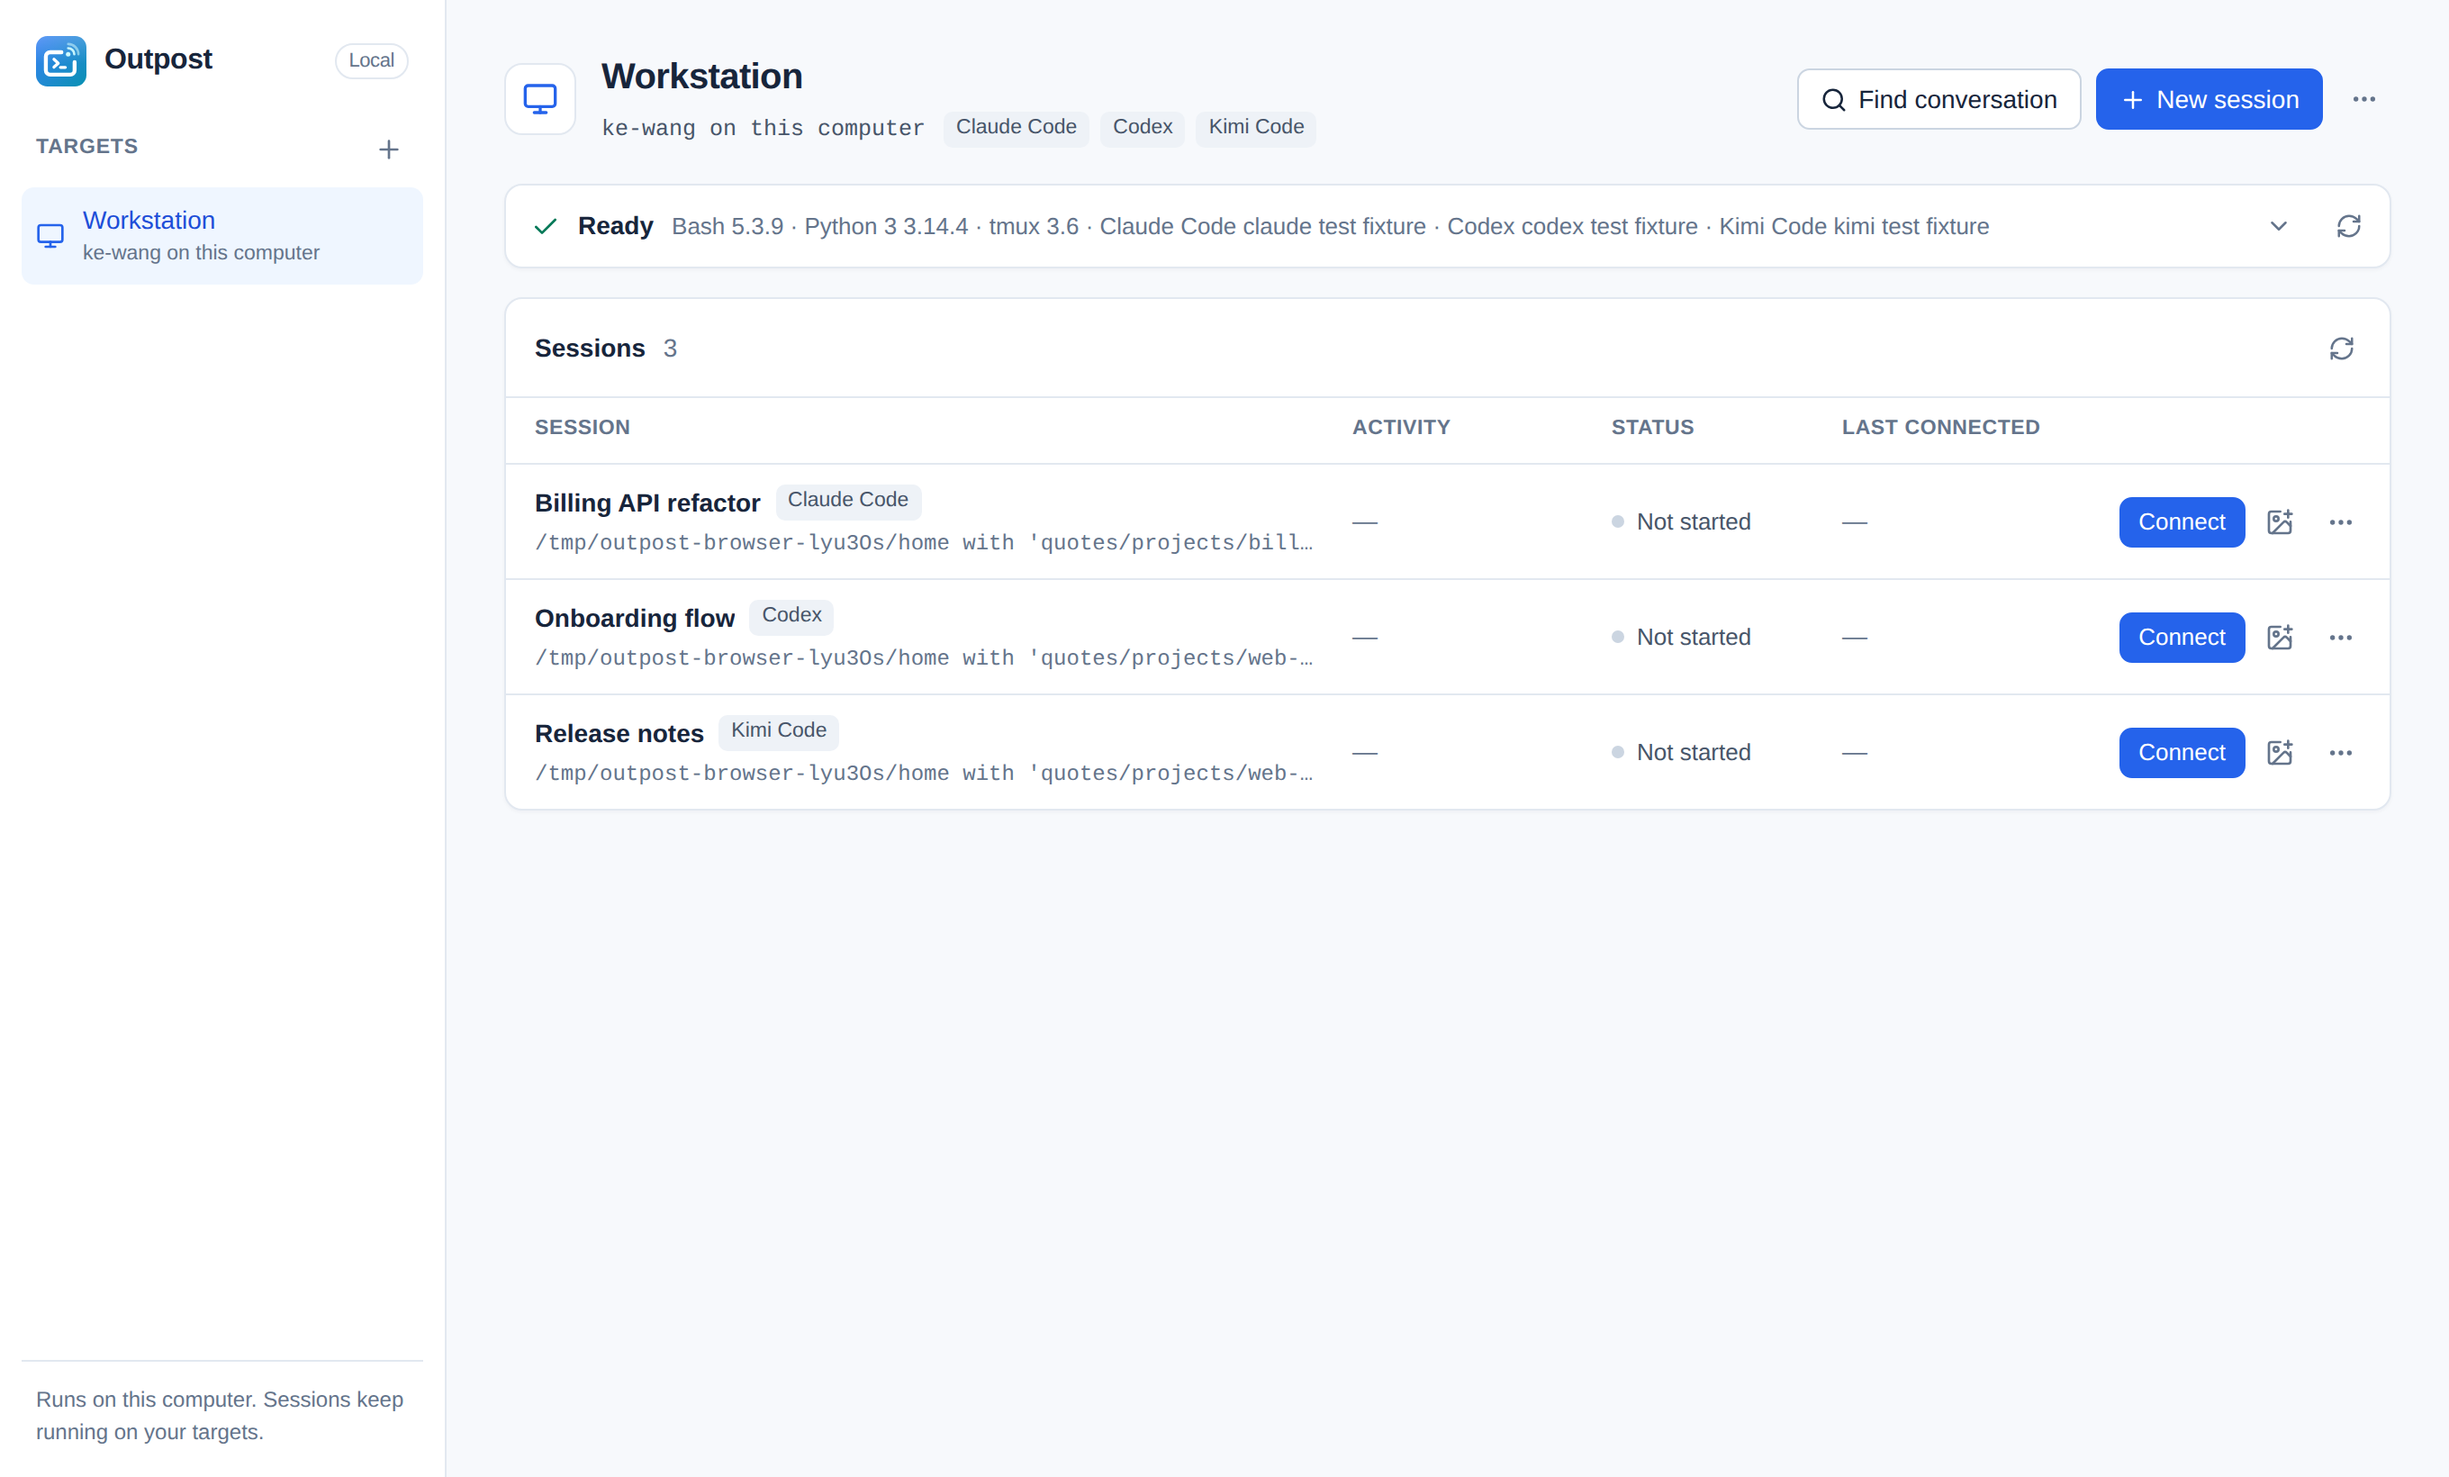
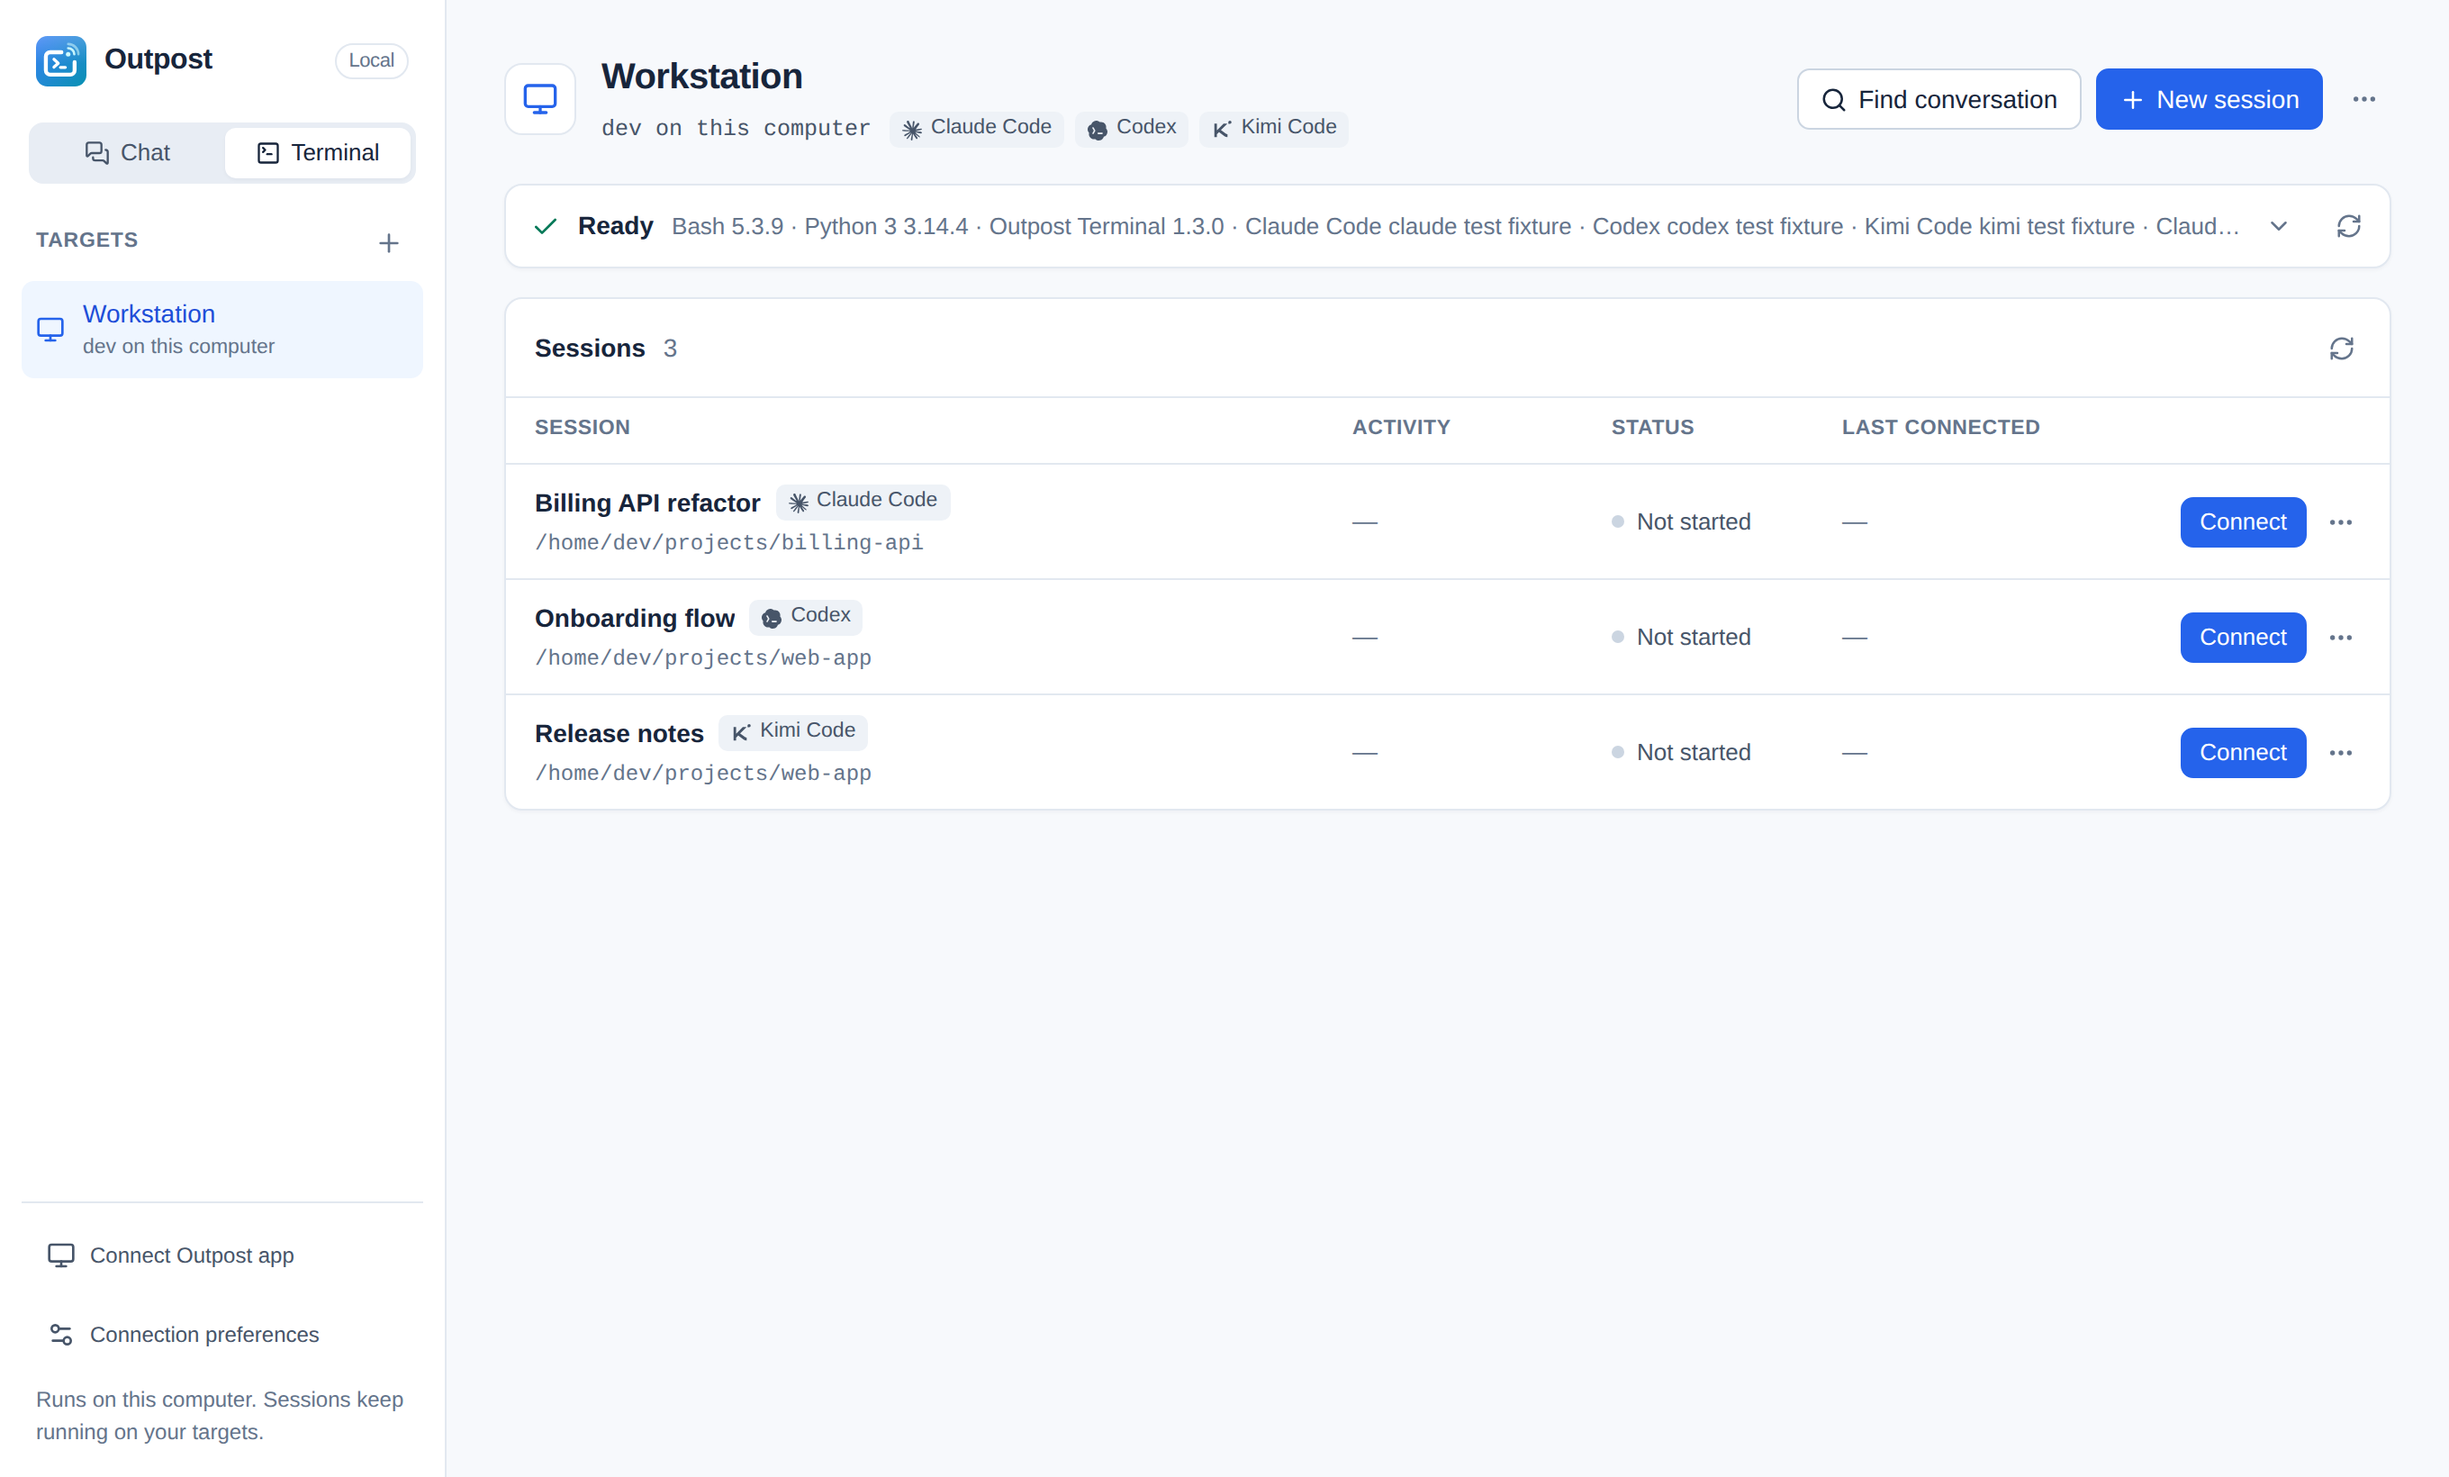
Prepare the repository for open source
- Remove AGENTS.md, which held maintainer-specific working notes.
- Describe the desktop chat preview's server requirement without naming a
  development branch, and drop the branch name from CONTRIBUTING's
  workflow-dispatch note.
- Capture README images with a neutral account and home directory instead of
  the capturing machine's username and temporary paths. Wait for the software
  check before capturing, and match the session's Connect button exactly now
  that the sidebar also has "Connect Outpost app".
- Use a reserved example domain in a mention-parsing test.

diff --git a/tests/unit/chat-model.test.ts b/tests/unit/chat-model.test.ts
@@ -26,7 +26,7 @@ test('chat mentions: known handles only, @all addresses everyone, emails are not
     handles: ['coder', 'writer'],
     everyone: false,
   })
-  assert.deepEqual(mentions('mail me@coder.dev; @all please', known), { handles: [], everyone: true })
+  assert.deepEqual(mentions('mail me@coder.example; @all please', known), { handles: [], everyone: true })
   assert.deepEqual(mentions('(@Coder) then @coder- again', known), { handles: ['coder'], everyone: false })
   assert.deepEqual(
     mentionParts('ask @coder now', known).map(part => part.mention),

diff --git a/desktop/RELEASE_NOTES.md b/desktop/RELEASE_NOTES.md
@@ -1,7 +1,6 @@
 # Outpost Desktop 0.19.0 preview
 
-This preview adds a **Chat** window: Outpost's chat mode, from the
-experiment-20261110 branch.
+This preview adds a **Chat** window for Outpost's chat mode.
 
 ## What's changed
 
@@ -16,7 +15,7 @@ experiment-20261110 branch.
 
 ## Update
 
-Chat needs a server built from the same branch and **Outpost Terminal 1.3.0**
+Chat needs an Outpost server with chat mode and **Outpost Terminal 1.3.0**
 on its targets (Required Software installs it). With an older server, the Chat
 window cannot connect; terminal tabs work as before. Claude Code sessions in
 chat also need the **Claude Code chat adapter** from Required Software. The

diff --git a/CONTRIBUTING.md b/CONTRIBUTING.md
@@ -105,8 +105,8 @@ No signing credentials or automatic updater are used for previews.
 
 The existing **CI** workflow can also call this same packaging workflow with
 `suite=desktop` and `publish_preview=true`; its full checks are skipped in that
-mode. This entry works while `desktop.yml` exists only on the `v2` branch and
-GitHub has not registered it on the default branch yet.
+mode. This entry works before GitHub registers `desktop.yml` on the default
+branch.
 
 On each native platform, exercise cold/warm `outpost://` launches, local
 login/PowerShell/WSL profiles, offline startup, local shell exit/restart,
